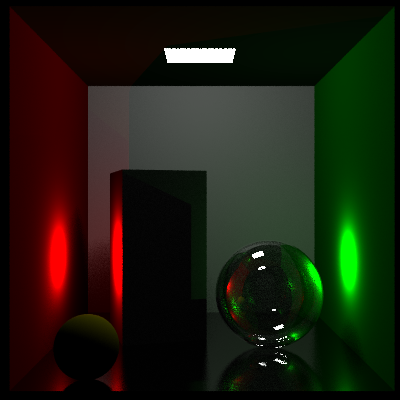
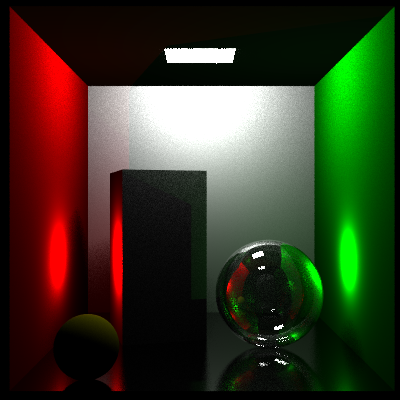
Assignment 8 working! without bonus

diff --git a/main/a_distributed.cpp b/main/a_distributed.cpp
@@ -4,6 +4,7 @@
 
 #include <rt/world.h>
 #include <rt/groups/simplegroup.h>
+#include <rt/groups/bvh.h>
 #include <rt/cameras/perspective.h>
 #include <rt/cameras/dofperspective.h>
 #include <rt/textures/constant.h>
@@ -37,7 +38,10 @@ namespace {
 	void a9renderCornellbox(float scale, const char* filename, Camera* cam, Material* sphereMaterial, Material* floorMaterial, int numSamples = 1) {
 		Image img(400, 400);
 		World world;
-		SimpleGroup* scene = new SimpleGroup();
+
+		// SimpleGroup* scene = new SimpleGroup();
+		BVH* scene = new BVH();
+
 		world.scene = scene;
 
 		Texture* redtex = new ConstantTexture(RGBColor(.7f, 0.f, 0.f));
@@ -75,6 +79,7 @@ namespace {
 		AreaLight als(light);
 		world.light.push_back(&als);
 		scene->add(light);
+		scene->rebuildIndex();
 
 		//point light
 		world.light.push_back(new PointLight(Point(490 * scale, 159.99f*scale, 279.5f*scale), RGBColor(40000.0f*scale*scale, 0, 0)));

diff --git a/rt/materials/glass.cpp b/rt/materials/glass.cpp
@@ -18,6 +18,7 @@ namespace rt
 	}
 	SampleReflectance GlassMaterial::getSampleReflectance(const Point & texPoint, const Vector & normal, const Vector & outDir) const
 	{
+		// adapted from: https://www.scratchapixel.com/lessons/3d-basic-rendering/introduction-to-shading/reflection-refraction-fresnel
 		Vector finalDirection;
 
 		float cosThetaOut = dot(normal, -outDir);
